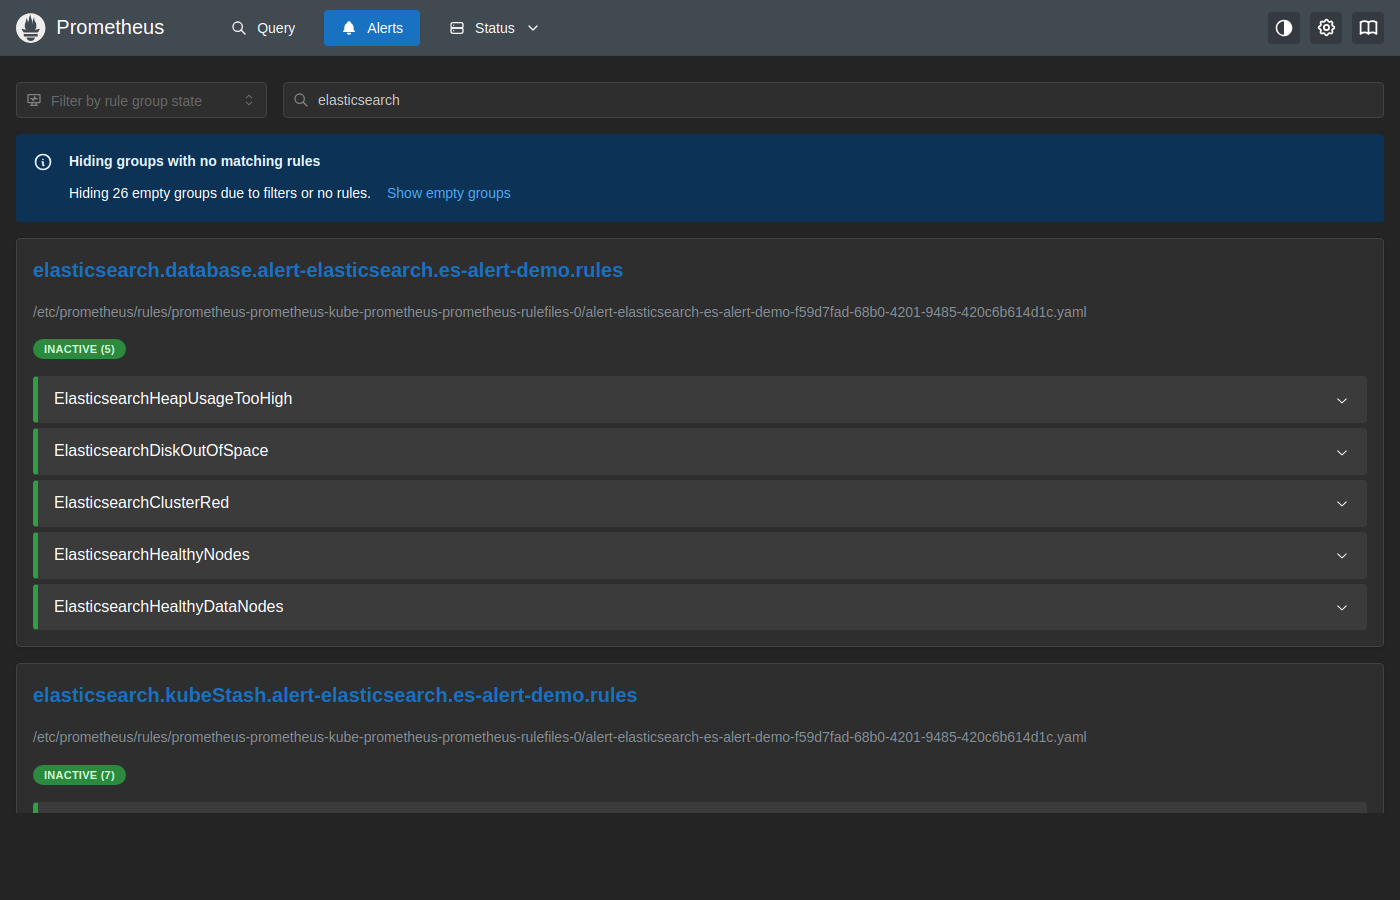
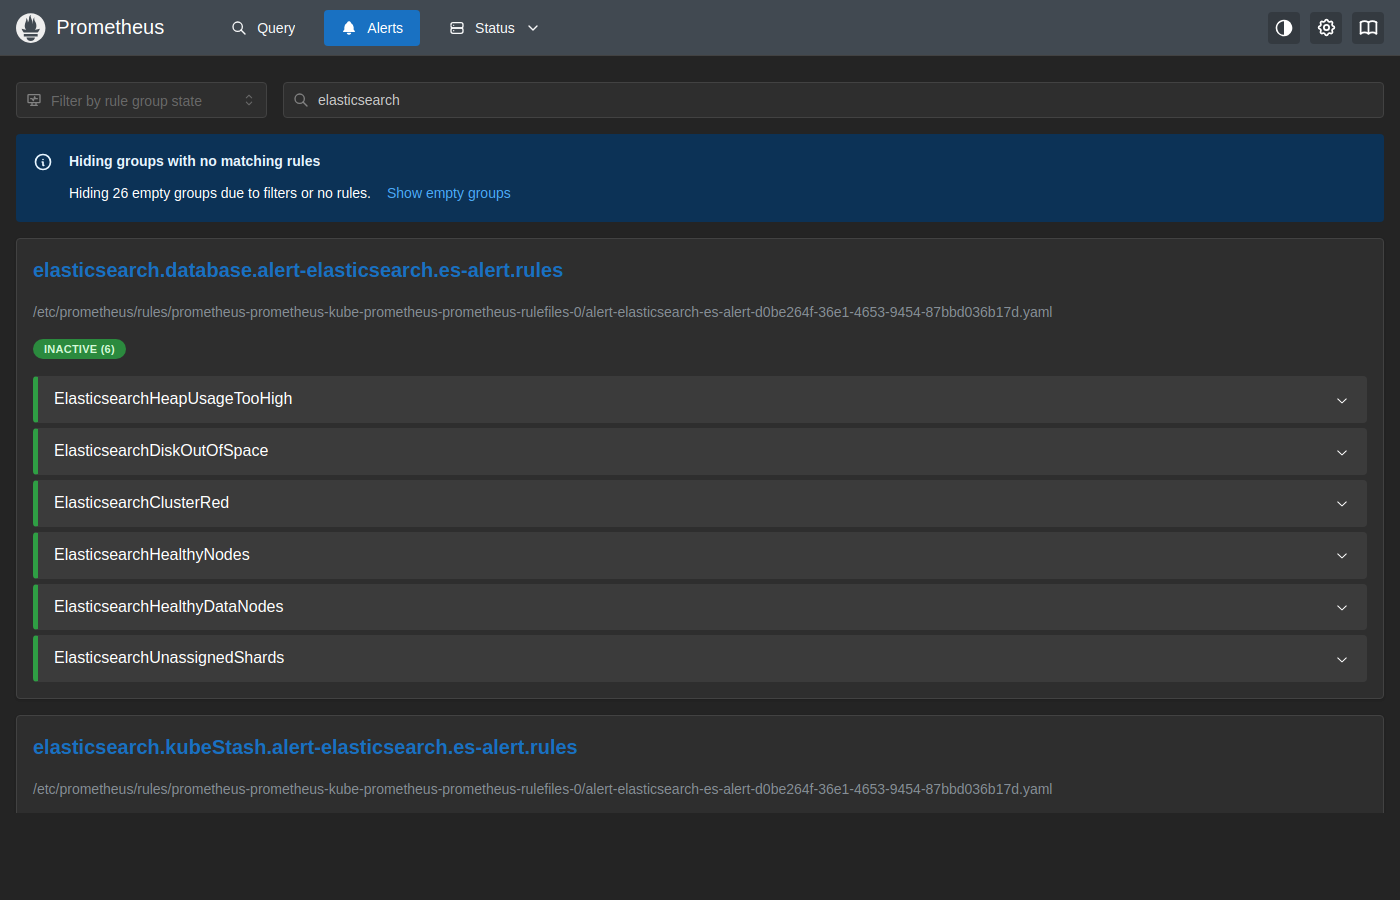
es

diff --git a/docs/guides/elasticsearch/monitoring/alerting.md b/docs/guides/elasticsearch/monitoring/alerting.md
@@ -61,24 +61,45 @@ Unlike some KubeDB databases, Elasticsearch's exporter does not publish a single
 
 ## Deploy Elasticsearch with Monitoring Enabled
 
-At first, let's deploy an Elasticsearch database with monitoring enabled. Below is the Elasticsearch object we are going to create.
+At first, let's deploy an Elasticsearch database with monitoring enabled. This tutorial uses a topology cluster (dedicated master, data, and ingest nodes) rather than a single-node instance, since that's representative of a real deployment and is what the rest of this guide's screenshots are taken from. Below is the Elasticsearch object we are going to create.
 
 ```yaml
 apiVersion: kubedb.com/v1
 kind: Elasticsearch
 metadata:
-  name: es-alert-demo
+  name: es-alert
   namespace: alert-elasticsearch
 spec:
-  version: xpack-8.19.9
+  version: xpack-9.2.3
   deletionPolicy: WipeOut
-  storage:
-    storageClassName: "longhorn"
-    accessModes:
-    - ReadWriteOnce
-    resources:
-      requests:
-        storage: 1Gi
+  topology:
+    master:
+      replicas: 2
+      storage:
+        storageClassName: "local-path"
+        accessModes:
+        - ReadWriteOnce
+        resources:
+          requests:
+            storage: 1Gi
+    data:
+      replicas: 3
+      storage:
+        storageClassName: "local-path"
+        accessModes:
+        - ReadWriteOnce
+        resources:
+          requests:
+            storage: 1Gi
+    ingest:
+      replicas: 2
+      storage:
+        storageClassName: "local-path"
+        accessModes:
+        - ReadWriteOnce
+        resources:
+          requests:
+            storage: 1Gi
   monitor:
     agent: prometheus.io/operator
     prometheus:
@@ -92,46 +113,60 @@ Here,
 
 - `spec.monitor.agent: prometheus.io/operator` tells KubeDB to create a `ServiceMonitor` resource managed by the Prometheus operator.
 - `spec.monitor.prometheus.serviceMonitor.labels.release: prometheus` adds the `release: prometheus` label to the created `ServiceMonitor`, matching the Prometheus `serviceMonitorSelector` so the target is discovered automatically.
-- `spec.storage.storageClassName: "longhorn"` — we use a real, quota-bound block-storage class here rather than a `hostPath`-backed one. Later in this tutorial we deliberately fill the data volume to demonstrate the disk-usage alert firing, and doing that safely requires a volume whose capacity is actually isolated to this Pod rather than shared with the underlying node's disk. Use whichever storage class is available/default in your cluster (`kubectl get storageclass`).
+- `spec.topology.*.storage.storageClassName: "local-path"` — use whichever storage class is available/default in your cluster (`kubectl get storageclass`). Note that `local-path` is a `hostPath`-backed class with no capacity quota — the PVC's `1Gi` request is only used for scheduling, and the volume is really backed by however much space is free on the node's own disk. That's fine for this tutorial, but it matters later: the [disk-usage alert simulation](#simulating-a-firing-alert) needs a real quota-bound class (e.g. `longhorn`) to be safe and reliable.
 
 Let's create the Elasticsearch resource.
 
 ```bash
-$ kubectl apply -f https://github.com/kubedb/docs/raw/{{< param "info.version" >}}/docs/examples/elasticsearch/monitoring/es-alert-demo.yaml
-elasticsearch.kubedb.com/es-alert-demo created
+$ kubectl apply -f https://github.com/kubedb/docs/raw/{{< param "info.version" >}}/docs/examples/elasticsearch/monitoring/es-alert.yaml
+elasticsearch.kubedb.com/es-alert created
 ```
 
 Now, wait for the database to go into `Ready` state.
 
 ```bash
-$ kubectl get elasticsearch -n alert-elasticsearch es-alert-demo
-NAME            VERSION        STATUS   AGE
-es-alert-demo   xpack-8.19.9   Ready    2m12s
+$ kubectl get elasticsearch -n alert-elasticsearch es-alert
+NAME       VERSION       STATUS   AGE
+es-alert   xpack-9.2.3   Ready    37m
+```
+
+KubeDB brings up 2 master, 3 data, and 2 ingest pods for this topology:
+
+```bash
+$ kubectl get pods -n alert-elasticsearch
+NAME                READY   STATUS    RESTARTS   AGE
+es-alert-data-0     2/2     Running   0          37m
+es-alert-data-1     2/2     Running   0          37m
+es-alert-data-2     2/2     Running   0          37m
+es-alert-ingest-0   2/2     Running   0          37m
+es-alert-ingest-1   2/2     Running   0          37m
+es-alert-master-0   2/2     Running   0          37m
+es-alert-master-1   2/2     Running   0          37m
 ```
 
 KubeDB creates a dedicated stats service with the `-stats` suffix for monitoring.
 
 ```bash
-$ kubectl get svc -n alert-elasticsearch --selector="app.kubernetes.io/instance=es-alert-demo"
-NAME                   TYPE        CLUSTER-IP      EXTERNAL-IP   PORT(S)     AGE
-es-alert-demo          ClusterIP   10.43.247.174   <none>        9200/TCP    2m21s
-es-alert-demo-master   ClusterIP   None            <none>        9300/TCP    2m21s
-es-alert-demo-pods     ClusterIP   None            <none>        9200/TCP    2m21s
-es-alert-demo-stats    ClusterIP   10.43.223.213   <none>        56790/TCP   2m16s
+$ kubectl get svc -n alert-elasticsearch --selector="app.kubernetes.io/instance=es-alert"
+NAME              TYPE        CLUSTER-IP      EXTERNAL-IP   PORT(S)     AGE
+es-alert          ClusterIP   10.43.126.120   <none>        9200/TCP    37m
+es-alert-master   ClusterIP   None            <none>        9300/TCP    37m
+es-alert-pods     ClusterIP   None            <none>        9200/TCP    37m
+es-alert-stats    ClusterIP   10.43.49.18     <none>        56790/TCP   37m
 ```
 
 KubeDB also creates a `ServiceMonitor` that tells Prometheus where to scrape.
 
 ```bash
 $ kubectl get servicemonitor -n alert-elasticsearch
-NAME                  AGE
-es-alert-demo-stats   2m16s
+NAME             AGE
+es-alert-stats   115s
 ```
 
 Verify that the `ServiceMonitor` carries the `release: prometheus` label so Prometheus discovers it.
 
 ```bash
-$ kubectl get servicemonitor -n alert-elasticsearch es-alert-demo-stats \
+$ kubectl get servicemonitor -n alert-elasticsearch es-alert-stats \
     -o jsonpath='{.metadata.labels.release}'
 prometheus
 ```
@@ -144,56 +179,54 @@ The `elasticsearch-alerts` chart creates a `PrometheusRule` resource containing 
 
 ### Why the Helm release name matters
 
-The chart derives the PromQL `job`/instance scoping (and the `PrometheusRule` name) from the **Helm release name**, not from a values field — so the release name must match the Elasticsearch object's name (`es-alert-demo`) for the rules to be correctly scoped to this instance.
+The chart derives the PromQL `job`/instance scoping (and the `PrometheusRule` name) from the **Helm release name**, not from a values field — so the release name must match the Elasticsearch object's name (`es-alert`) for the rules to be correctly scoped to this instance.
 
 The chart's default label is `release: kube-prometheus-stack`, so we must also override it at install time to match the Prometheus `ruleSelector`.
 
-### A note on defaults vs. this single-node demo
+### A note on chart defaults
 
-A handful of the chart's default `database` group rules are tuned for a production, multi-node Elasticsearch cluster and don't make sense for our single-node demo instance out of the box:
+The chart's default `database` group rules are tuned for a production, multi-node Elasticsearch cluster, which is exactly what this tutorial's `es-alert` topology (2 master + 3 data + 2 ingest = 7 nodes) already is — so the node-count and shard-allocation defaults (`elasticsearchHealthyNodes` / `elasticsearchHealthyDataNodes` at `val: 3`, `elasticsearchUnassignedShards` enabled) apply as-is with no overrides needed.
 
-- `elasticsearchHealthyNodes` / `elasticsearchHealthyDataNodes` default to `val: 3` (fire if fewer than 3 nodes are up). Our demo only ever has 1 node, so we override both to `val: 1`.
-- `elasticsearchUnassignedShards` fires whenever any shard is unassigned. A single-node cluster can never assign a replica shard (there's no second node to place it on), so this rule would fire permanently in a single-node topology — we disable it for this demo.
+One rule pair still needs overriding regardless of topology:
+
 - `diskUsageHigh` / `diskAlmostFull` compute PVC usage as `kubelet_volume_stats_used_bytes / (kubelet_volume_stats_used_bytes + kube_pod_spec_volumes_persistentvolumeclaims_info)`. The `..._info` series is a constant label metric (always `1`), not a byte count, so this expression evaluates to ~100% regardless of actual usage — a chart-level expression defect. We disable both and rely instead on `elasticsearchDiskOutOfSpace` / `elasticsearchDiskSpaceLow`, which are computed from the exporter's own accurate `elasticsearch_filesystem_data_available_bytes` / `elasticsearch_filesystem_data_size_bytes` metrics.
 
 ### Install
 
 ```bash
-$ helm upgrade -i es-alert-demo oci://ghcr.io/appscode-charts/elasticsearch-alerts \
-    -n alert-elasticsearch \
-    --create-namespace \
-    --version=v2026.7.14 \
-    --set form.alert.labels.release=prometheus \
-    --set form.alert.groups.database.rules.elasticsearchHealthyNodes.val=1 \
-    --set form.alert.groups.database.rules.elasticsearchHealthyDataNodes.val=1 \
-    --set form.alert.groups.database.rules.elasticsearchUnassignedShards.enabled=false \
-    --set form.alert.groups.database.rules.diskUsageHigh.enabled=false \
-    --set form.alert.groups.database.rules.diskAlmostFull.enabled=false
+$ helm repo add appscode oci://ghcr.io/appscode-charts
+$ helm repo update
+$ helm search repo appscode/elasticsearch-alerts --version=v2026.7.14
+NAME                         	CHART VERSION	APP VERSION	DESCRIPTION                                     
+appscode/elasticsearch-alerts	v2026.7.14   	v0.7.0     	A Helm chart for Elasticsearch Alert by AppsCode
+
+$ helm upgrade -i es-alert appscode/elasticsearch-alerts -n alert-elasticsearch --create-namespace --version=v2026.7.14 \
+  --set form.alert.labels.release=prometheus \
+  --set form.alert.groups.database.rules.diskUsageHigh.enabled=false \
+  --set form.alert.groups.database.rules.diskAlmostFull.enabled=false
 ```
 
 | Flag | Value | Purpose |
 |------|-------|---------|
-| `es-alert-demo` (release name) | — | Scopes every PromQL expression to this instance (`job="es-alert-demo-stats"`) |
+| `es-alert` (release name) | — | Scopes every PromQL expression to this instance (`job="es-alert-stats"`). **This must exactly match the Elasticsearch object's name** — see [above](#why-the-helm-release-name-matters). A mismatched release name is the most common cause of alerts silently never firing (and Grafana/Prometheus showing nothing for a healthy instance): the chart's rules end up scoped to a `job` label that no target ever carries. |
 | `-n alert-elasticsearch` | `alert-elasticsearch` | Installs the `PrometheusRule` in the same namespace as the database |
 | `form.alert.labels.release` | `prometheus` | Matches the Prometheus `ruleSelector` so the rules are loaded |
-| `...elasticsearchHealthyNodes.val` / `...elasticsearchHealthyDataNodes.val` | `1` | Matches our single-node demo topology instead of the production default of `3` |
-| `...elasticsearchUnassignedShards.enabled` | `false` | Avoids a permanently-firing alert on a single-node cluster (see above) |
 | `...diskUsageHigh.enabled` / `...diskAlmostFull.enabled` | `false` | Works around the PVC-usage expression defect described above |
 
-> If you're running against a multi-node production cluster, skip the four threshold/disable overrides above and just install with the release name and label override.
+> If you're running against a single-node instance instead of a topology cluster, also override `...elasticsearchHealthyNodes.val` / `...elasticsearchHealthyDataNodes.val` to `1` (the default `3` will never be satisfied by one node), and disable `...elasticsearchUnassignedShards` (a single-node cluster can never assign a replica shard, so this rule fires permanently).
 
 ### Verify the PrometheusRule is created
 
 ```bash
 $ kubectl get prometheusrule -n alert-elasticsearch
-NAME            AGE
-es-alert-demo   30s
+NAME       AGE
+es-alert   22s
 ```
 
 Confirm the `release: prometheus` label is present.
 
 ```bash
-$ kubectl get prometheusrule -n alert-elasticsearch es-alert-demo \
+$ kubectl get prometheusrule -n alert-elasticsearch es-alert \
     -o jsonpath='{.metadata.labels.release}'
 prometheus
 ```
@@ -213,7 +246,7 @@ Open `http://localhost:9090/rules?search=elasticsearch`.
   <img alt="Prometheus Rule Health" src="/docs/images/elasticsearch/monitoring/es-alerting-prom-rules.png" style="padding:10px">
 </p>
 
-The `elasticsearch.database.alert-elasticsearch.es-alert-demo.rules` group is visible with all rules showing **OK**, confirming that Prometheus has loaded and is evaluating the Elasticsearch alert definitions every 30 seconds.
+The `elasticsearch.database.alert-elasticsearch.es-alert.rules` group is visible with all rules showing **OK**, confirming that Prometheus has loaded and is evaluating the Elasticsearch alert definitions every 30 seconds.
 
 ---
 
@@ -224,24 +257,24 @@ The `elasticsearch.database.alert-elasticsearch.es-alert-demo.rules` group is vi
 The `exporter` sidecar inside the Elasticsearch pod serves metrics at `:56790/metrics`. The `elasticsearch_cluster_health_status` series confirms the exporter can reach Elasticsearch and report cluster health.
 
 ```bash
-$ kubectl exec -n alert-elasticsearch es-alert-demo-0 -c exporter -- \
+$ kubectl exec -n alert-elasticsearch es-alert-data-0 -c exporter -- \
     wget -qO- localhost:56790/metrics | grep elasticsearch_cluster_health_status
-elasticsearch_cluster_health_status{cluster="es-alert-demo",color="green"} 0
-elasticsearch_cluster_health_status{cluster="es-alert-demo",color="red"} 0
-elasticsearch_cluster_health_status{cluster="es-alert-demo",color="yellow"} 1
+elasticsearch_cluster_health_status{cluster="es-alert",color="green"} 1
+elasticsearch_cluster_health_status{cluster="es-alert",color="red"} 0
+elasticsearch_cluster_health_status{cluster="es-alert",color="yellow"} 0
 ```
 
-A single-node Elasticsearch cluster reports `yellow` (not `green`) because it can never assign replica shards without a second node — this is expected and not an outage.
+With master, data, and ingest nodes all up, the cluster can fully assign both primary and replica shards, so it reports `green`. (A single-node cluster would instead report `yellow` — it can never assign replica shards without a second node to place them on — which is expected and not an outage.)
 
 ### 2. Check the Prometheus target is UP
 
-Open `http://localhost:9090/targets?search=es-alert-demo`.
+Open `http://localhost:9090/targets?search=es-alert`.
 
 <p align="center">
   <img alt="Prometheus Target UP" src="/docs/images/elasticsearch/monitoring/es-alerting-prom-target.png" style="padding:10px">
 </p>
 
-The target `serviceMonitor/alert-elasticsearch/es-alert-demo-stats/0` shows **UP**, confirming metrics are being scraped from `es-alert-demo-0` in the `alert-elasticsearch` namespace.
+The target group `serviceMonitor/alert-elasticsearch/es-alert-stats/0` shows **7 / 7 up** — one entry per master/data/ingest pod, confirming metrics are being scraped from every node in the `alert-elasticsearch` namespace.
 
 ### 3. Confirm all Elasticsearch alerts are inactive
 
@@ -251,7 +284,7 @@ Open `http://localhost:9090/alerts?search=elasticsearch` to see the Elasticsearc
   <img alt="Prometheus Alerts — All Inactive" src="/docs/images/elasticsearch/monitoring/es-alerting-prom-alerts.png" style="padding:10px">
 </p>
 
-All 5 rules in the `elasticsearch.database` group show **INACTIVE (5)**, meaning the database is healthy and no thresholds are breached.
+All 6 rules in the `elasticsearch.database` group show **INACTIVE (6)**, meaning the database is healthy and no thresholds are breached.
 
 ### 4. Check AlertManager
 
@@ -262,7 +295,7 @@ $ kubectl port-forward -n monitoring \
     svc/prometheus-kube-prometheus-alertmanager 9093:9093
 ```
 
-Open `http://localhost:9093`. With a healthy Elasticsearch instance, no alerts for `es-alert-demo` will be listed here.
+Open `http://localhost:9093`. With a healthy Elasticsearch instance, no alerts for `es-alert` will be listed here.
 
 ---
 
@@ -270,26 +303,28 @@ Open `http://localhost:9093`. With a healthy Elasticsearch instance, no alerts f
 
 The previous section confirmed that all alerts are **INACTIVE** while the database is healthy. This section walks through deliberately triggering the `ElasticsearchDiskOutOfSpace` critical alert so you can observe the full alert lifecycle — from firing in Prometheus through to the AlertManager dashboard — and then resolve it.
 
-Elasticsearch doesn't have a single "process down" style alert the way some other databases do — its exporter reports live cluster metrics rather than a boolean liveness gauge, and restarting the single node in this demo recovers in a few seconds, too fast to reliably observe in a scrape/evaluation cycle. Instead, we simulate a real resource-exhaustion scenario: filling the data volume, which is exactly the kind of incident this alert exists to catch.
+Elasticsearch doesn't have a single "process down" style alert the way some other databases do — its exporter reports live cluster metrics rather than a boolean liveness gauge, and restarting a node recovers in a few seconds, too fast to reliably observe in a scrape/evaluation cycle. Instead, we simulate a real resource-exhaustion scenario: filling a data node's volume, which is exactly the kind of incident this alert exists to catch.
+
+> **Requires a quota-bound storage class.** This only works reliably against a volume whose capacity is actually isolated to the Pod — e.g. `longhorn` — rather than `hostPath`-backed classes like `local-path`. With `local-path`, the "volume" is really just a directory on the node's own disk: `df` inside the Pod reports the *node's* total/used/free space, not the PVC's nominal size. Padding the volume to 90% would mean filling a large fraction of the underlying node's real disk — which is shared with every other Pod scheduled there — rather than a small, isolated 1Gi volume. If your data nodes are on `local-path` (as in the topology example above), either redeploy that node's storage on a quota-bound class first, or treat this section as a reference for what to expect rather than a live exercise.
 
 ### 1. Fill the data volume
 
-The Elasticsearch container mounts its data directory from the 1Gi `longhorn` PVC we provisioned earlier. Write a padding file to push usage past the `90%` critical threshold.
+Pick one data pod (e.g. `es-alert-data-0`) and write a padding file into its data directory to push usage past the `90%` critical threshold.
 
 ```bash
-$ kubectl exec -n alert-elasticsearch es-alert-demo-0 -c elasticsearch -- \
+$ kubectl exec -n alert-elasticsearch es-alert-data-0 -c elasticsearch -- \
     sh -c "df -h /usr/share/elasticsearch/data"
 Filesystem                                              Size  Used Avail Use% Mounted on
 /dev/longhorn/pvc-4f05381c-a1c8-49db-9e30-b5ea0007c77b  974M  896K  957M   1% /usr/share/elasticsearch/data
 
-$ kubectl exec -n alert-elasticsearch es-alert-demo-0 -c elasticsearch -- \
+$ kubectl exec -n alert-elasticsearch es-alert-data-0 -c elasticsearch -- \
     sh -c "mkdir -p /usr/share/elasticsearch/data/_disk_filler && \
            dd if=/dev/zero of=/usr/share/elasticsearch/data/_disk_filler/pad.bin bs=1M count=870"
 870+0 records in
 870+0 records out
 912261120 bytes (912 MB, 870 MiB) copied, 11.1736 s, 81.6 MB/s
 
-$ kubectl exec -n alert-elasticsearch es-alert-demo-0 -c elasticsearch -- \
+$ kubectl exec -n alert-elasticsearch es-alert-data-0 -c elasticsearch -- \
     sh -c "df -h /usr/share/elasticsearch/data"
 Filesystem                                              Size  Used Avail Use% Mounted on
 /dev/longhorn/pvc-4f05381c-a1c8-49db-9e30-b5ea0007c77b  974M  871M   87M  91% /usr/share/elasticsearch/data
@@ -301,25 +336,17 @@ Wait 30–60 seconds for the next Prometheus scrape cycle (configured at 10 s) a
 
 Open `http://localhost:9090/alerts?search=elasticsearch`.
 
-<p align="center">
-  <img alt="Prometheus Alerts — ElasticsearchDiskOutOfSpace Firing" src="/docs/images/elasticsearch/monitoring/es-alerting-prom-alerts-firing.png" style="padding:10px">
-</p>
-
-Because `ElasticsearchDiskOutOfSpace` has `for: 0m` (instant), it moves directly from **INACTIVE** to **FIRING** within one evaluation cycle. The rest of the `elasticsearch.database` group stays **INACTIVE (4)**.
+Because `ElasticsearchDiskOutOfSpace` has `for: 0m` (instant), it moves directly from **INACTIVE** to **FIRING** within one evaluation cycle, while the rest of the `elasticsearch.database` group stays **INACTIVE**.
 
 ### 3. Check the AlertManager dashboard
 
 Open `http://localhost:9093/#/alerts?filter={namespace="alert-elasticsearch"}`.
 
-<p align="center">
-  <img alt="AlertManager — ElasticsearchDiskOutOfSpace Firing" src="/docs/images/elasticsearch/monitoring/es-alerting-alertmanager-firing.png" style="padding:10px">
-</p>
-
 AlertManager shows the `ElasticsearchDiskOutOfSpace` alert. The alert card displays:
 
 - **Severity**: `critical`
-- **Instance**: `es-alert-demo-0` in the `alert-elasticsearch` namespace
-- **job**: `es-alert-demo-stats`
+- **Instance**: the pod you filled (e.g. `es-alert-data-0`) in the `alert-elasticsearch` namespace
+- **job**: `es-alert-stats`
 - **mount**: `/usr/share/elasticsearch/data (/dev/longhorn/pvc-...)`
 - **Started**: timestamp when the alert first fired
 
@@ -330,7 +357,7 @@ AlertManager routes this alert to every receiver configured in your `alertmanage
 Delete the padding file to free up space.
 
 ```bash
-$ kubectl exec -n alert-elasticsearch es-alert-demo-0 -c elasticsearch -- \
+$ kubectl exec -n alert-elasticsearch es-alert-data-0 -c elasticsearch -- \
     sh -c "rm -rf /usr/share/elasticsearch/data/_disk_filler && df -h /usr/share/elasticsearch/data"
 Filesystem                                              Size  Used Avail Use% Mounted on
 /dev/longhorn/pvc-4f05381c-a1c8-49db-9e30-b5ea0007c77b  974M  924K  957M   1% /usr/share/elasticsearch/data
@@ -342,7 +369,7 @@ Once usage drops back under the threshold, Prometheus marks the alert **INACTIVE
 
 ## Alert Reference
 
-All alerts are scoped to the `es-alert-demo` instance in the `alert-elasticsearch` namespace via the PromQL label filters `job="es-alert-demo-stats"` and `namespace="alert-elasticsearch"`.
+All alerts are scoped to the `es-alert` instance in the `alert-elasticsearch` namespace via the PromQL label filters `job="es-alert-stats"` and `namespace="alert-elasticsearch"`.
 
 ### Database Group
 
@@ -441,7 +468,7 @@ form:
 ```
 
 ```bash
-$ helm upgrade es-alert-demo oci://ghcr.io/appscode-charts/elasticsearch-alerts \
+$ helm upgrade es-alert oci://ghcr.io/appscode-charts/elasticsearch-alerts \
     -n alert-elasticsearch \
     --version=v2026.7.14 \
     -f custom-alerts.yaml
@@ -455,10 +482,10 @@ To remove all resources created in this tutorial, run the following commands.
 
 ```bash
 # Remove the elasticsearch-alerts release
-$ helm uninstall es-alert-demo -n alert-elasticsearch
+$ helm uninstall es-alert -n alert-elasticsearch
 
 # Remove the Elasticsearch instance
-$ kubectl delete elasticsearch -n alert-elasticsearch es-alert-demo
+$ kubectl delete elasticsearch -n alert-elasticsearch es-alert
 
 # Delete namespace
 $ kubectl delete ns alert-elasticsearch